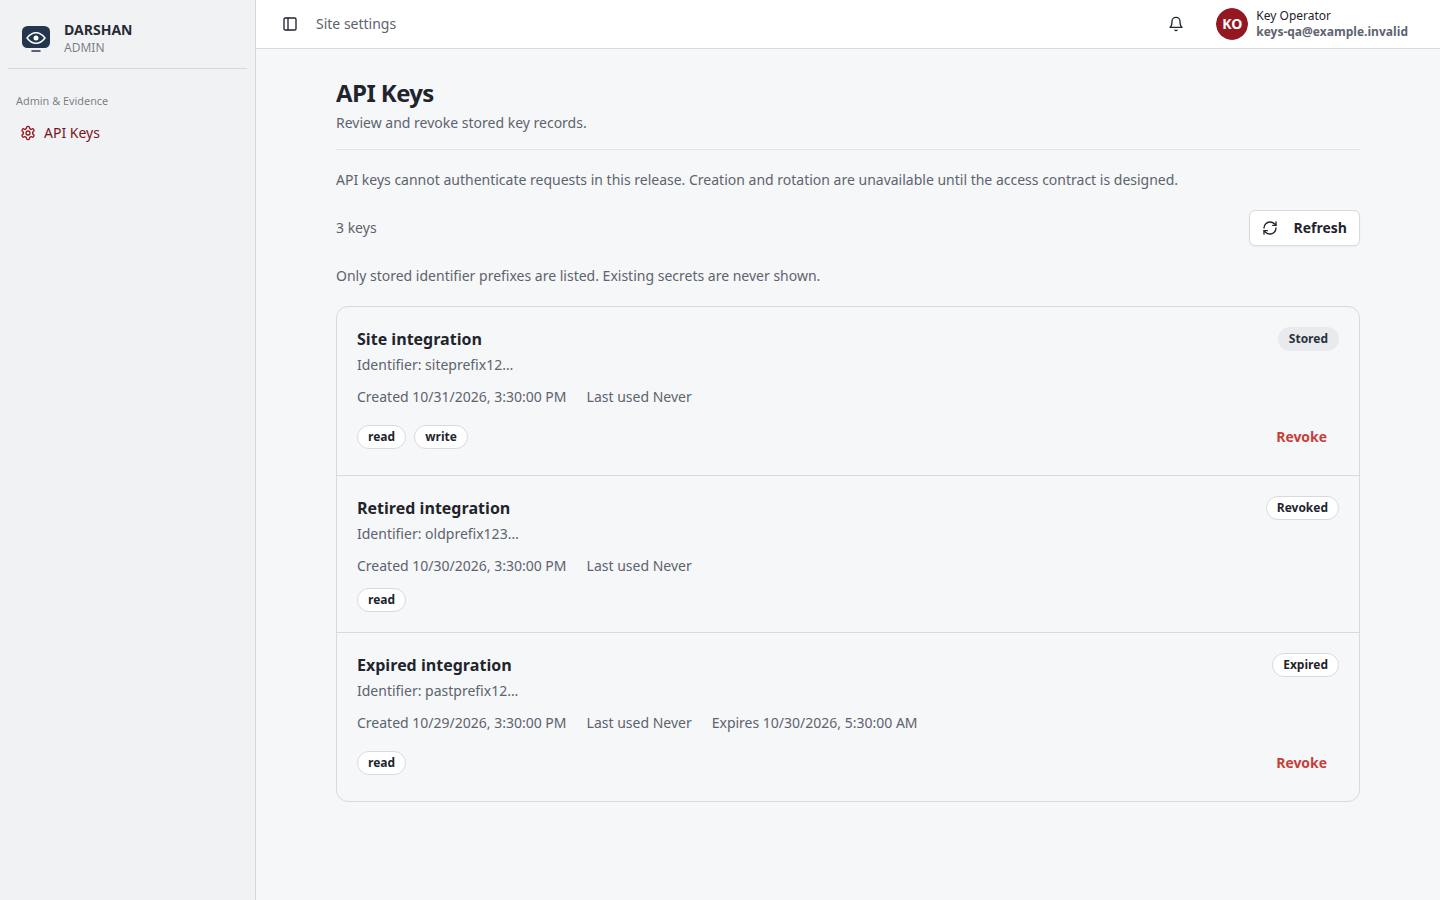
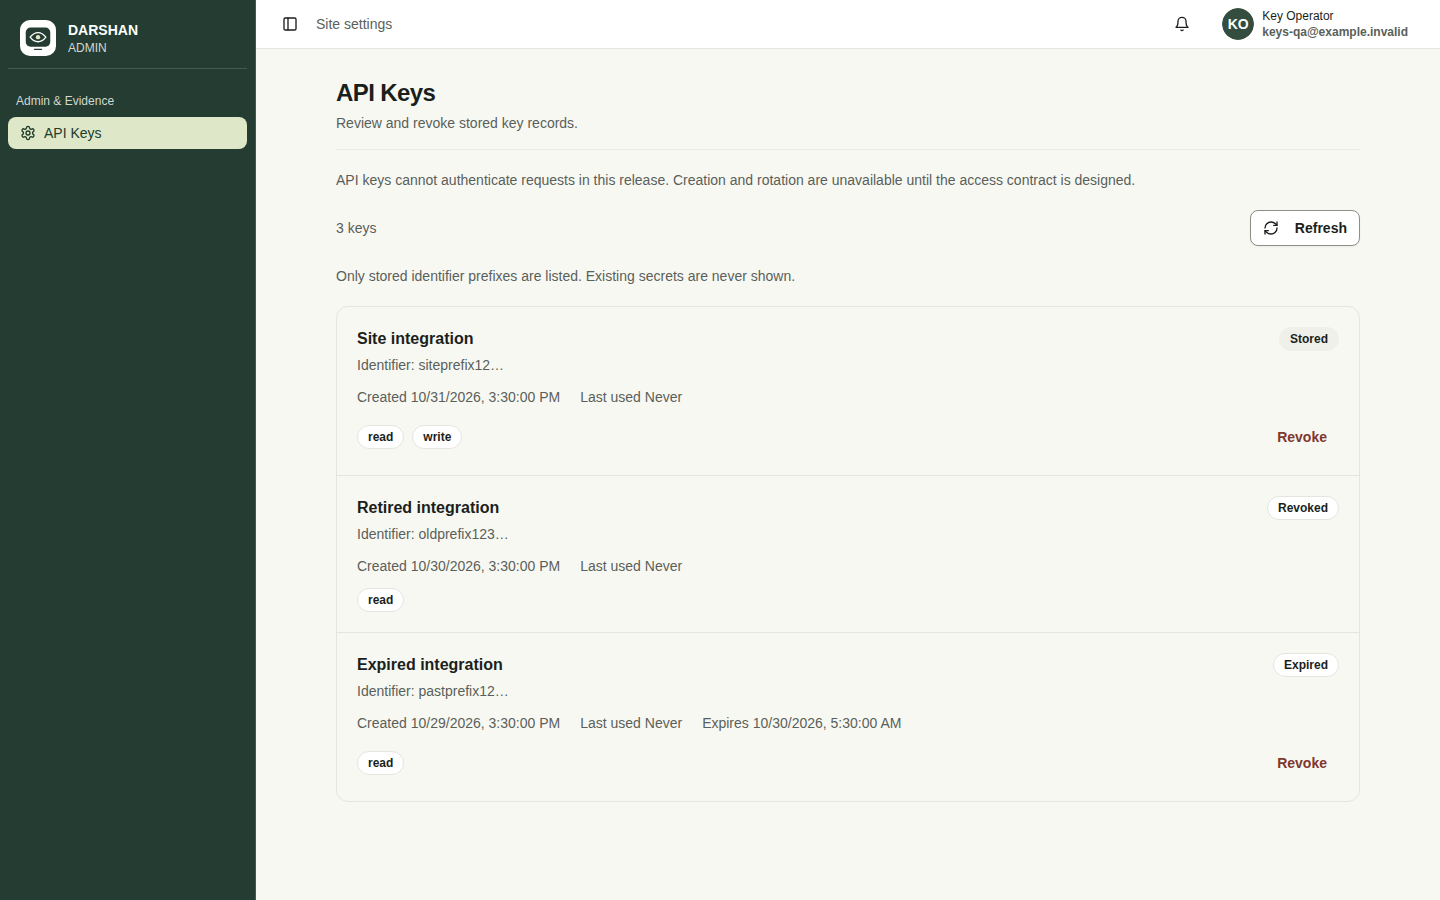
fix(cms): preserve validated site appearance across routes
Guard authenticated appearance and branding bootstrap against malformed responses. Update dark-mode browser fixtures to use saved site settings, align renamed Users and toast assertions, and record the broad CMS regression with refreshed fixture captures.

diff --git a/darshan-cms/src/components/settings/AppSettingsBootstrap.tsx b/darshan-cms/src/components/settings/AppSettingsBootstrap.tsx
@@ -2,6 +2,7 @@ import { useEffect } from "react";
 import { useTheme } from "next-themes";
 import { useAppearanceSettings, useBrandingSettings } from "@/hooks/useSettingsApi";
 import { useSiteAppearance } from "@/components/appearance/SiteAppearanceProvider";
+import { accentPresets, parsePublicAppearance, type PublicAppearance } from "@/config/publicAppearance";
 
 export function AppSettingsBootstrap() {
   const { data: branding } = useBrandingSettings();
@@ -11,23 +12,33 @@ export function AppSettingsBootstrap() {
 
   useEffect(() => {
     if (!branding) return;
-    updateAppearance({
-      appName: branding.app_name,
-      logoUrl: branding.logo_url,
-      iconUrl: branding.icon_url,
-      faviconUrl: branding.favicon_url,
+    const changes: Partial<PublicAppearance> = {};
+    const safe = parsePublicAppearance({
+      app_name: branding.app_name,
+      logo_url: branding.logo_url,
+      icon_url: branding.icon_url,
+      favicon_url: branding.favicon_url,
     });
+    if (typeof branding.app_name === "string" && branding.app_name.trim()) changes.appName = safe.appName;
+    if (branding.logo_url === null || (typeof branding.logo_url === "string" && safe.logoUrl)) changes.logoUrl = safe.logoUrl;
+    if (branding.icon_url === null || (typeof branding.icon_url === "string" && safe.iconUrl)) changes.iconUrl = safe.iconUrl;
+    if (branding.favicon_url === null || (typeof branding.favicon_url === "string" && safe.faviconUrl)) changes.faviconUrl = safe.faviconUrl;
+    if (Object.keys(changes).length) updateAppearance(changes);
   }, [branding, updateAppearance]);
 
   useEffect(() => {
     if (!appearance) return;
-    if (appearance.theme_mode) {
+    const changes: Partial<PublicAppearance> = {};
+    if (appearance.theme_mode === "light" || appearance.theme_mode === "dark" || appearance.theme_mode === "system") {
       setTheme(appearance.theme_mode);
+      changes.themeMode = appearance.theme_mode;
     }
-    updateAppearance({ themeMode: appearance.theme_mode, accentPreset: appearance.accent_preset });
-    const root = document.documentElement;
-    if (appearance.sidebar_mode) {
-      root.dataset.sidebarMode = appearance.sidebar_mode;
+    if (accentPresets.includes(appearance.accent_preset)) {
+      changes.accentPreset = appearance.accent_preset;
+    }
+    if (Object.keys(changes).length) updateAppearance(changes);
+    if (appearance.sidebar_mode === "expanded" || appearance.sidebar_mode === "collapsed" || appearance.sidebar_mode === "auto") {
+      document.documentElement.dataset.sidebarMode = appearance.sidebar_mode;
     }
   }, [appearance, setTheme, updateAppearance]);
 

diff --git a/darshan-cms/tests/public-appearance.e2e.spec.ts b/darshan-cms/tests/public-appearance.e2e.spec.ts
@@ -81,18 +81,21 @@ test("forest sidebar keeps links readable and marks the current route", async ({
   await page.route("**/api/v1/**", (route) => {
     const path = new URL(route.request().url()).pathname;
     const json = (body: unknown) => route.fulfill({ contentType: "application/json", body: JSON.stringify(body) });
-    if (path === "/api/v1/settings/public-appearance") return json({ theme_mode: "light", accent_preset: "emerald", app_name: "DARSHAN CMS" });
+    if (path === "/api/v1/settings/public-appearance") return json({ theme_mode: "light", accent_preset: "emerald", app_name: "North Campus Displays", favicon_url: "/north-campus.ico" });
     if (path === "/api/v1/auth/me") return json(user);
     if (path === "/api/v1/auth/authorization") return json({
       version: 1, user_id: user.id, role: { id: user.role_id, name: user.role },
       department_id: null, department_ids: [], capabilities: adminCapabilities,
     });
-    if (path === "/api/v1/settings/appearance") return json({ theme_mode: "light", accent_preset: "emerald", sidebar_mode: "expanded" });
-    if (path === "/api/v1/settings/branding") return json({ app_name: "DARSHAN CMS", logo_url: null, icon_url: null, favicon_url: null });
+    if (path === "/api/v1/settings/appearance") return json({});
+    if (path === "/api/v1/settings/branding") return json({ app_name: " ", favicon_url: "javascript:alert(1)" });
     if (path === "/api/v1/notifications/unread-count") return json({ unread_total: 0 });
     return json({ items: [], pagination: { page: 1, limit: 100, total: 0 } });
   });
   await page.goto("/screens");
+  await expect(page.locator("html")).toHaveAttribute("data-accent", "emerald");
+  await expect(page).toHaveTitle("North Campus Displays");
+  await expect(page.locator('link[rel="icon"]')).toHaveAttribute("href", "/north-campus.ico");
   const screens = page.getByRole("link", { name: "Screens", exact: true });
   const dashboard = page.getByRole("link", { name: "Dashboard", exact: true });
   await expect(screens).toHaveAttribute("data-active", "true");

diff --git a/darshan-cms/tests/schedule-queue-ui.e2e.spec.ts b/darshan-cms/tests/schedule-queue-ui.e2e.spec.ts
@@ -294,7 +294,7 @@ test("approve then publish failure does not repeat approval and can publish from
   await page.getByRole("button", { name: "Open Morning briefing request details" }).click();
   await page.getByRole("button", { name: "Approve & Publish" }).click();
   await page.getByRole("button", { name: "Confirm" }).click();
-  await expect(page.getByText("Approval was saved, but publishing failed.", { exact: false })).toBeVisible();
+  await expect(page.getByLabel("Notifications (F8)").getByText("Approval was saved, but publishing failed.", { exact: false })).toBeVisible();
   await page.waitForTimeout(1300);
   expect(state.requests.filter((request) => request.endsWith("/approve") && request.startsWith("POST "))).toHaveLength(1);
   expect(state.requests.filter((request) => request.endsWith("/publish") && request.startsWith("POST "))).toHaveLength(1);

diff --git a/darshan-cms/tests/reports-ui.e2e.spec.ts b/darshan-cms/tests/reports-ui.e2e.spec.ts
@@ -1,3 +1,4 @@
+import { installDarkSiteAppearance } from "./helpers/siteAppearance";
 import { expect, test, type Page } from "@playwright/test";
 import { ADMIN_TEST_ROLE_ID, ADMIN_TEST_USER_ID, testAuthorization, type TestCapability } from "./helpers/selfAuthorization";
 
@@ -119,7 +120,7 @@ test("full access shows correct PoP outcome and responsive report views", async 
   await page.getByRole("tab", { name: "Audit Logs" }).click();
   await expect(page.getByText("7 logs")).toBeVisible();
   await page.setViewportSize({ width: 390, height: 900 });
-  await page.evaluate(() => window.localStorage.setItem("theme", "dark"));
+  await installDarkSiteAppearance(page);
   await page.reload();
   await page.getByRole("tab", { name: "Audit Logs" }).click();
   await expect(page.getByRole("tab", { name: "Audit Logs" })).toHaveAttribute("aria-selected", "true");

diff --git a/darshan-cms/tests/api-keys-ui.e2e.spec.ts b/darshan-cms/tests/api-keys-ui.e2e.spec.ts
@@ -1,3 +1,4 @@
+import { installDarkSiteAppearance } from "./helpers/siteAppearance";
 import { expect, test, type Page } from "@playwright/test";
 import { ADMIN_TEST_ROLE_ID, ADMIN_TEST_USER_ID, testAuthorization } from "./helpers/selfAuthorization";
 
@@ -121,7 +122,7 @@ test("API key list fits phone, tablet, desktop, and dark phone", async ({ page }
     await page.screenshot({ path: `../qa-artifacts/evidence/product-ui-api-keys-policy/api-keys-${width}.png` });
   }
   await page.setViewportSize({ width: 390, height: 900 });
-  await page.evaluate(() => window.localStorage.setItem("theme", "dark"));
+  await installDarkSiteAppearance(page);
   await page.reload();
   await expect(page.locator("html")).toHaveClass(/dark/);
   await expect(page.getByRole("region", { name: "Site integration" })).toBeVisible();

diff --git a/darshan-cms/tests/departments-ui.e2e.spec.ts b/darshan-cms/tests/departments-ui.e2e.spec.ts
@@ -1,3 +1,4 @@
+import { installDarkSiteAppearance } from "./helpers/siteAppearance";
 import { expect, test, type Page } from "@playwright/test";
 import { ADMIN_TEST_ROLE_ID, ADMIN_TEST_USER_ID, testAuthorization, type TestCapability } from "./helpers/selfAuthorization";
 
@@ -148,7 +149,7 @@ test("failed list has Retry; responsive light and dark layouts do not overflow",
     await page.screenshot({ path: testInfo.outputPath(`departments-${width}.png`) });
   }
   await page.setViewportSize({ width: 390, height: 900 });
-  await page.evaluate(() => window.localStorage.setItem("theme", "dark"));
+  await installDarkSiteAppearance(page);
   await page.reload();
   await expect(page.locator("html")).toHaveClass(/dark/);
   await expect(page.getByRole("heading", { name: "Operations" })).toBeVisible();

diff --git a/darshan-cms/tests/notifications.e2e.spec.ts b/darshan-cms/tests/notifications.e2e.spec.ts
@@ -1,3 +1,4 @@
+import { installDarkSiteAppearance } from "./helpers/siteAppearance";
 import { expect, test, type BrowserContext, type Page } from "@playwright/test";
 import { OPERATOR_TEST_ROLE_ID, testAuthorization } from "./helpers/selfAuthorization";
 
@@ -175,7 +176,7 @@ test("notification list stays usable at phone, tablet, and desktop widths", asyn
     await page.screenshot({ path: testInfo.outputPath(`notifications-${width}.png`) });
   }
   await page.setViewportSize({ width: 390, height: 900 });
-  await page.evaluate(() => window.localStorage.setItem("theme", "dark"));
+  await installDarkSiteAppearance(page);
   await page.reload();
   await expect(page.locator("html")).toHaveClass(/dark/);
   await expect(page.getByRole("heading", { name: "Notifications" })).toBeVisible();

diff --git a/darshan-cms/tests/proof-of-play-ui.e2e.spec.ts b/darshan-cms/tests/proof-of-play-ui.e2e.spec.ts
@@ -1,3 +1,4 @@
+import { installDarkSiteAppearance } from "./helpers/siteAppearance";
 import { expect, test, type Page } from "@playwright/test";
 import { ADMIN_TEST_ROLE_ID, ADMIN_TEST_USER_ID, testAuthorization } from "./helpers/selfAuthorization";
 
@@ -109,7 +110,7 @@ test("proof list fits phone, tablet, desktop, and dark phone", async ({ page }, 
     await page.screenshot({ path: testInfo.outputPath(`proof-of-play-${width}.png`) });
   }
   await page.setViewportSize({ width: 390, height: 900 });
-  await page.evaluate(() => window.localStorage.setItem("theme", "dark"));
+  await installDarkSiteAppearance(page);
   await page.reload();
   await expect(page.locator("html")).toHaveClass(/dark/);
   await expect(page.getByText("52 records · showing 50 on this page")).toBeVisible();

diff --git a/darshan-cms/tests/layouts-list-ui.e2e.spec.ts b/darshan-cms/tests/layouts-list-ui.e2e.spec.ts
@@ -1,3 +1,4 @@
+import { installDarkSiteAppearance } from "./helpers/siteAppearance";
 import { expect, test, type Page } from "@playwright/test";
 import { ADMIN_TEST_ROLE_ID, ADMIN_TEST_USER_ID, testAuthorization } from "./helpers/selfAuthorization";
 
@@ -121,7 +122,7 @@ test("list is readable at phone, tablet, desktop, and dark phone", async ({ page
     await page.screenshot({ path: testInfo.outputPath(`layouts-${width}.png`) });
   }
   await page.setViewportSize({ width: 390, height: 900 });
-  await page.evaluate(() => window.localStorage.setItem("theme", "dark"));
+  await installDarkSiteAppearance(page);
   await page.reload();
   await expect(page.locator("html")).toHaveClass(/dark/);
   await expect(page.getByRole("article", { name: "Welcome Mosaic" })).toBeVisible();

diff --git a/darshan-cms/tests/webhooks-ui.e2e.spec.ts b/darshan-cms/tests/webhooks-ui.e2e.spec.ts
@@ -1,3 +1,4 @@
+import { installDarkSiteAppearance } from "./helpers/siteAppearance";
 import { expect, test, type Page } from "@playwright/test";
 import { ADMIN_TEST_ROLE_ID, ADMIN_TEST_USER_ID, testAuthorization } from "./helpers/selfAuthorization";
 
@@ -137,7 +138,7 @@ test("endpoint list fits phone, tablet, desktop, and dark phone", async ({ page 
     await page.screenshot({ path: testInfo.outputPath(`webhooks-${width}.png`) });
   }
   await page.setViewportSize({ width: 390, height: 900 });
-  await page.evaluate(() => window.localStorage.setItem("theme", "dark"));
+  await installDarkSiteAppearance(page);
   await page.reload();
   await expect(page.locator("html")).toHaveClass(/dark/);
   await expect(page.getByRole("region", { name: "Site status" })).toBeVisible();

diff --git a/darshan-cms/tests/media-library-ui.e2e.spec.ts b/darshan-cms/tests/media-library-ui.e2e.spec.ts
@@ -1,3 +1,4 @@
+import { installDarkSiteAppearance } from "./helpers/siteAppearance";
 import { expect, test, type Page } from "@playwright/test";
 import { ADMIN_TEST_ROLE_ID, ADMIN_TEST_USER_ID, testAuthorization } from "./helpers/selfAuthorization";
 
@@ -137,7 +138,7 @@ test("populated library stays readable at three widths and in dark mode", async 
     await page.screenshot({ path: testInfo.outputPath(`media-${width}.png`) });
   }
   await page.setViewportSize({ width: 390, height: 900 });
-  await page.evaluate(() => window.localStorage.setItem("theme", "dark"));
+  await installDarkSiteAppearance(page);
   await page.reload();
   await expect(page.locator("html")).toHaveClass(/dark/);
   await expect(page.getByRole("group", { name: "Atrium welcome" })).toBeVisible();

diff --git a/darshan-cms/tests/helpers/siteAppearance.ts b/darshan-cms/tests/helpers/siteAppearance.ts
@@ -1,0 +1,12 @@
+import type { Page, Route } from "@playwright/test";
+
+// Dark-mode visual checks must use the site's saved setting. Local browser
+// storage is only a bootstrap cache and is replaced on each public load.
+export async function installDarkSiteAppearance(page: Page) {
+  const fulfill = (route: Route, body: unknown) =>
+    route.fulfill({ contentType: "application/json", body: JSON.stringify(body) });
+  await page.route("**/api/v1/settings/public-appearance", (route) =>
+    fulfill(route, { app_name: "DARSHAN CMS", theme_mode: "dark", accent_preset: "emerald" }));
+  await page.route("**/api/v1/settings/appearance", (route) =>
+    fulfill(route, { theme_mode: "dark", accent_preset: "emerald", sidebar_mode: "expanded" }));
+}
